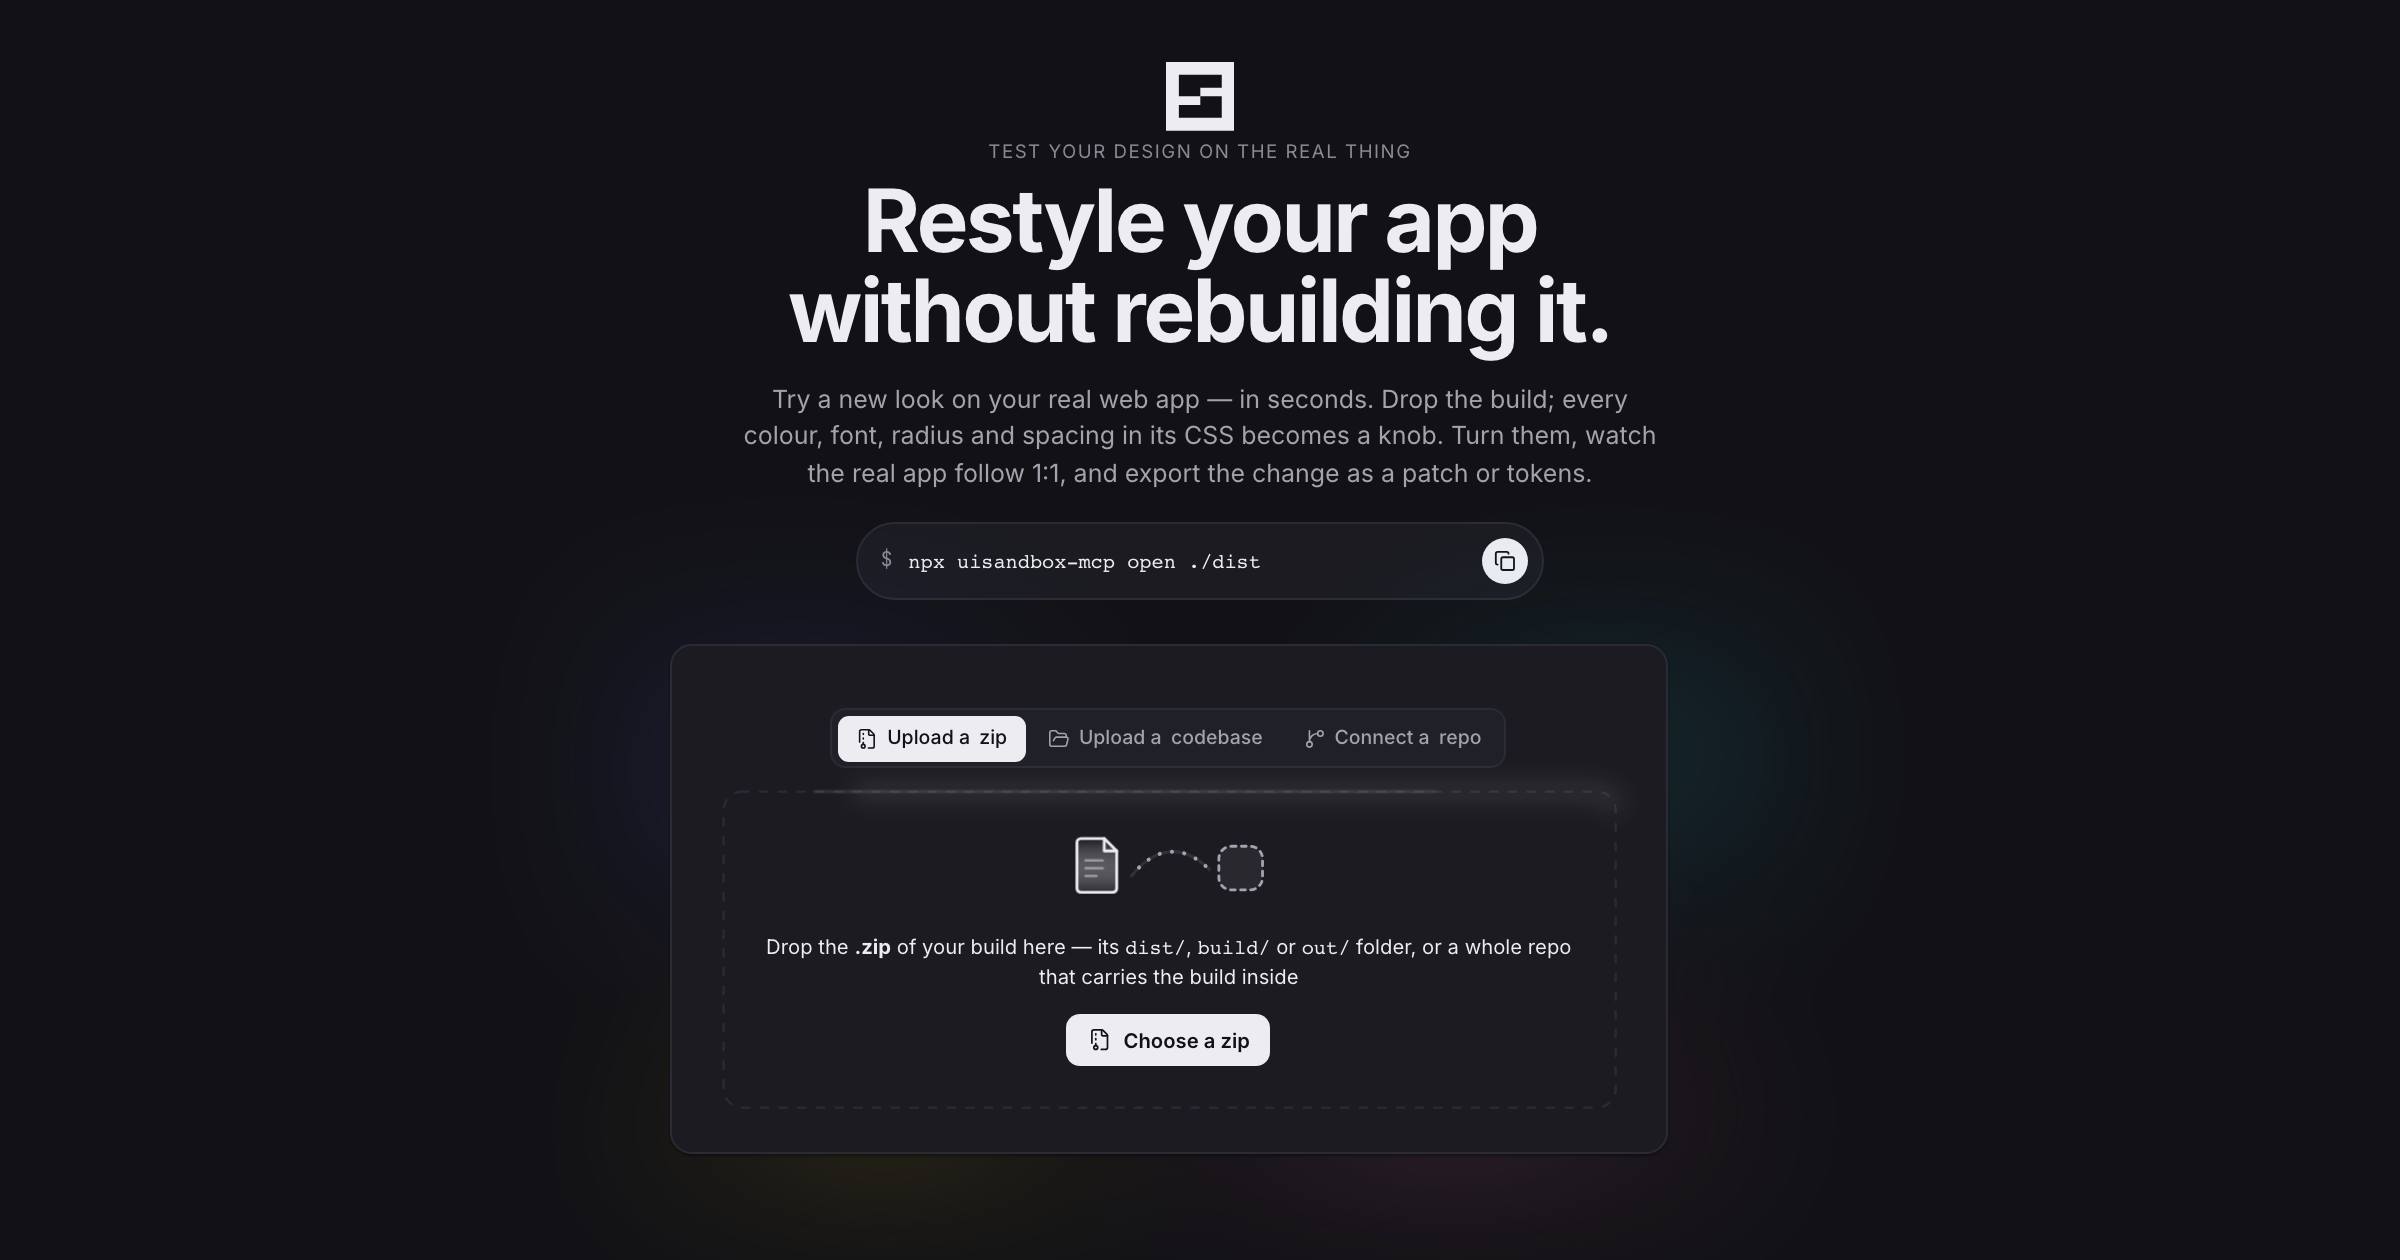
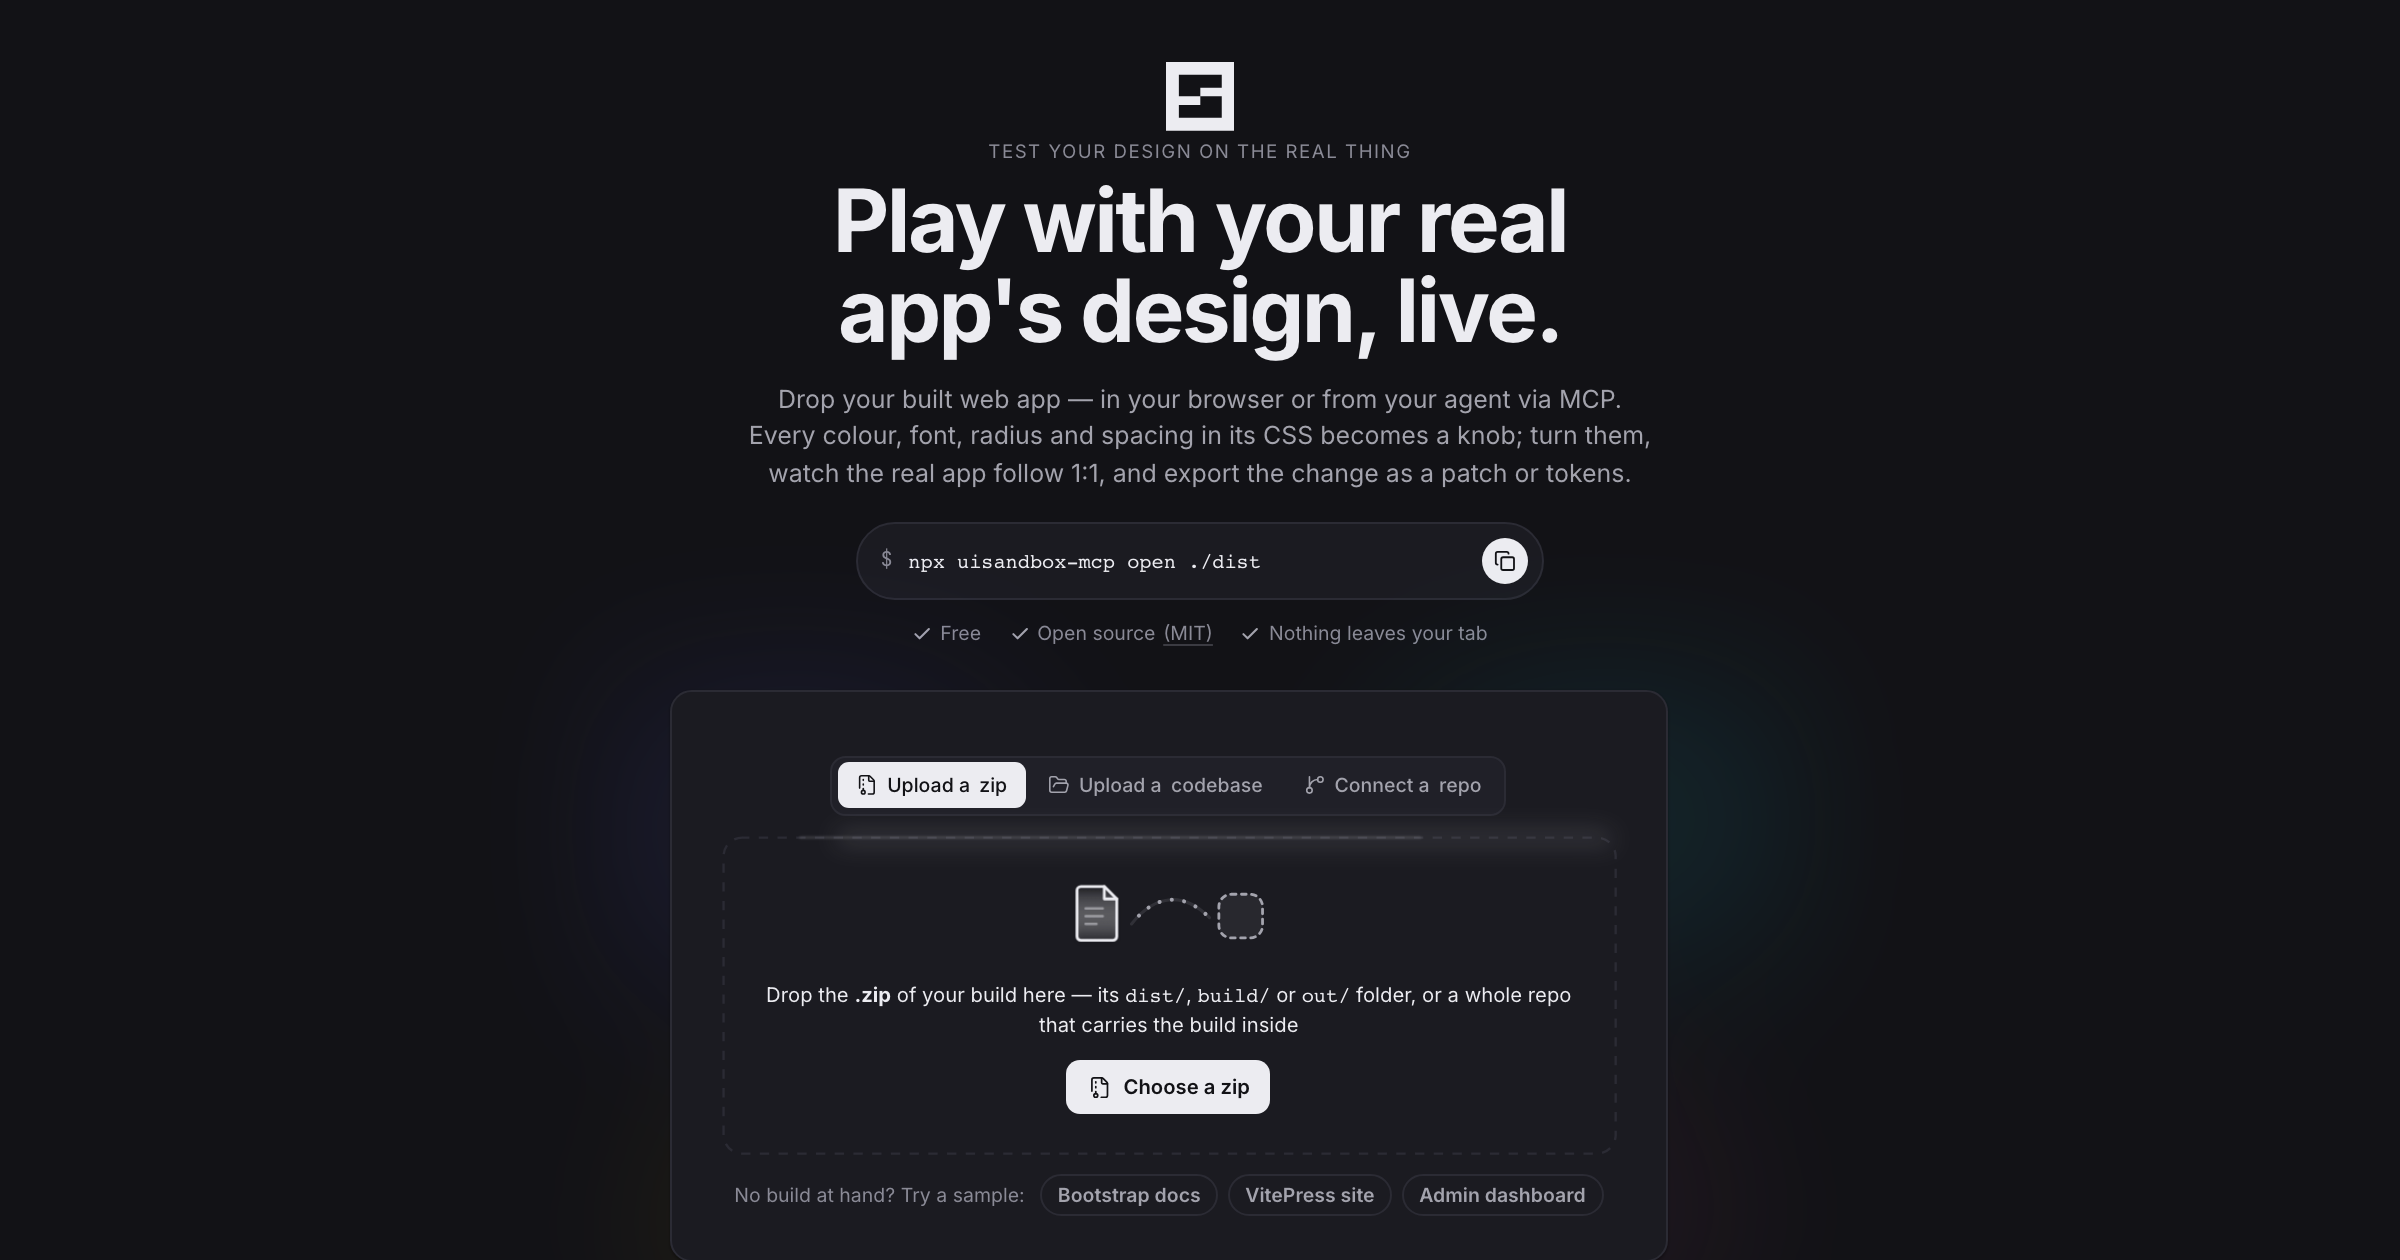
One claim everywhere: 'Play with your real app's design, live.' — H1, title, OG, JSON-LD, manifest, llms, README, marketing; sub-line names browser or MCP; OG reshot

diff --git a/index.html b/index.html
@@ -3,8 +3,8 @@
   <head>
     <meta charset="UTF-8" />
     <meta name="viewport" content="width=device-width, initial-scale=1.0" />
-    <title>UISandbox — Restyle your app without rebuilding it</title>
-    <meta name="description" content="Try a new look on your real web app in seconds. Drop the build, turn the knobs — brand, colours, fonts, spacing, radius — watch it follow 1:1, export the change as a patch or tokens. Free, open source, nothing leaves your tab." />
+    <title>UISandbox — Play with your real app's design, live</title>
+    <meta name="description" content="Play with your real app's design, live: drop the build, turn the knobs — brand, colours, fonts, spacing, radius — watch it follow 1:1, export the change as a patch or tokens. In your browser or via MCP. Free, open source, nothing leaves your tab." />
     <link rel="canonical" href="https://uisandbox.org/" />
     <meta name="theme-color" content="#18191d" />
     <link rel="icon" type="image/svg+xml" href="/favicon.svg" />
@@ -19,15 +19,15 @@
     <meta property="og:type" content="website" />
     <meta property="og:site_name" content="UISandbox" />
     <meta property="og:url" content="https://uisandbox.org/" />
-    <meta property="og:title" content="UISandbox — Restyle your app without rebuilding it" />
-    <meta property="og:description" content="Try a new look on your real web app in seconds: drop the build, turn the knobs, watch it follow 1:1, export the patch. Free, open source (MIT), nothing leaves your tab." />
+    <meta property="og:title" content="UISandbox — Play with your real app's design, live" />
+    <meta property="og:description" content="Drop the build, turn the knobs, watch the real app follow 1:1, export the patch. In your browser or via MCP. Free, open source (MIT), nothing leaves your tab." />
     <meta property="og:image" content="https://uisandbox.org/og.png" />
     <meta property="og:image:width" content="1200" />
     <meta property="og:image:height" content="630" />
     <meta property="og:image:alt" content="UISandbox: a real web app in a sandbox with the knobs beside it" />
     <meta name="twitter:card" content="summary_large_image" />
-    <meta name="twitter:title" content="UISandbox — Restyle your app without rebuilding it" />
-    <meta name="twitter:description" content="Try a new look on your real web app in seconds: drop the build, turn the knobs, watch it follow 1:1, export the patch. Free, open source (MIT), nothing leaves your tab." />
+    <meta name="twitter:title" content="UISandbox — Play with your real app's design, live" />
+    <meta name="twitter:description" content="Drop the build, turn the knobs, watch the real app follow 1:1, export the patch. In your browser or via MCP. Free, open source (MIT), nothing leaves your tab." />
     <meta name="twitter:image" content="https://uisandbox.org/og.png" />
     <!-- Structured data -->
     <script type="application/ld+json">
@@ -37,7 +37,7 @@
       "name": "UISandbox",
       "slogan": "Test your design on the real thing.",
       "url": "https://uisandbox.org/",
-      "description": "Restyle your app without rebuilding it: drop a built web app, see it 1:1 in the browser, turn the knobs (brand, colours, fonts, spacing, radius, elevation, motion) and export the change as a patch or tokens. Test your design on the real thing. Everything runs in the tab; nothing is uploaded.",
+      "description": "Play with your real app's design, live: drop a built web app, see it 1:1 in the browser, turn the knobs (brand, colours, fonts, spacing, radius, elevation, motion) and export the change as a patch or tokens. Test your design on the real thing. Everything runs in the tab; nothing is uploaded.",
       "applicationCategory": "DesignApplication",
       "operatingSystem": "Web",
       "browserRequirements": "A browser with service workers (Chrome, Edge, Firefox, Safari)",
@@ -84,8 +84,8 @@
         <main>
           <div class="m"></div>
           <div class="k">Test your design on the real thing</div>
-          <h1>Restyle your app<br>without rebuilding it.</h1>
-          <p class="s">Try a new look on your real web app — in seconds. Drop the build; every colour, font, radius and spacing in its CSS becomes a knob. Turn them, watch the real app follow 1:1, and export the change as a patch or tokens.</p>
+          <h1>Play with your real<br>app's design, live.</h1>
+          <p class="s">Drop your built web app — in your browser or from your agent via MCP. Every colour, font, radius and spacing in its CSS becomes a knob; turn them, watch the real app follow 1:1, and export the change as a patch or tokens.</p>
           <div class="i"></div>
           <p class="k" style="text-transform:none;letter-spacing:0;font-size:12.5px;margin:-16px 0 28px">✓ Free · ✓ Open source (MIT) · ✓ Nothing leaves your tab</p>
           <div class="c">

diff --git a/src/app/Intake.tsx b/src/app/Intake.tsx
@@ -62,8 +62,8 @@ export function Intake({ onArchive, onUrl, onSample, busy, error }: IntakeProps)
       <section className="hero">
         <div className="intake__mark"><Mark size={44} /></div>
         <div className="hero__kicker">Test your design on the real thing</div>
-        <h1>Restyle your app<br />without rebuilding it.</h1>
-        <p className="hero__sub">Try a new look on your real web app — in seconds. Drop the build; every colour, font, radius and spacing in its CSS becomes a knob. Turn them, watch the real app follow 1:1, and export the change as a patch or tokens.</p>
+        <h1>Play with your real<br />app's design, live.</h1>
+        <p className="hero__sub">Drop your built web app — in your browser or from your agent via MCP. Every colour, font, radius and spacing in its CSS becomes a knob; turn them, watch the real app follow 1:1, and export the change as a patch or tokens.</p>
         <InstallLine compact />
         <ul className="hero__proof" aria-label="In short">
           <li><Check size={13} strokeWidth={2.5} /> Free</li>
@@ -168,6 +168,7 @@ function Landing() {
     <div className="landing">
       <section className="landing__sec">
         <h2>How it works</h2>
+        <p className="landing__lead">Restyle your app without rebuilding it — try a new look on the real thing, in seconds.</p>
         <ol className="steps">
           <li><b>Bring the build.</b> A zip of <code>dist/</code>, <code>build/</code> or <code>out/</code>, a folder, or a public GitHub repo. Files are read in this tab and served to the frame by a service worker — nothing is uploaded.</li>
           <li><b>See it 1:1.</b> Every CSS literal becomes a variable holding the very same value, so the page renders exactly as it was — runtime styles, CDN stylesheets and nested frames included.</li>

diff --git a/scripts/og/og.html b/scripts/og/og.html
@@ -35,8 +35,8 @@
   </div>
   <div class="stage">
     <div class="brand"><svg viewBox="0 0 64 64"><path d="M64 64H0V0H64V64ZM12 32H32V40H12V52H52V32H32V24H52V12H12V32Z" fill="#ececf1" fill-rule="evenodd"/></svg>UISandbox</div>
-    <h1>Restyle your app<br><span>without rebuilding it.</span></h1>
-    <p>Try a new look on your real web app — in seconds. Drop the build, turn the knobs, watch it follow 1:1, export the patch. Test your design on the real thing.</p>
+    <h1>Play with your real<br><span>app's design, live.</span></h1>
+    <p>Restyle your app without rebuilding it — drop the build, turn the knobs, watch it follow 1:1, export the patch. Test your design on the real thing.</p>
   </div>
   <div class="foot"><span class="chip ok">✓ 1:1 verified · 1,184 elements</span><span class="chip">reach 100% colours · 100% type</span><span class="chip">MIT · free forever</span></div>
   <div class="url">uisandbox.org</div>

diff --git a/src/styles/chrome.css b/src/styles/chrome.css
@@ -349,6 +349,7 @@ kbd { font: 11px ui-monospace, Menlo, monospace; padding: 1px 5px; border: 1px s
 .install--compact { max-width: 440px; margin: 0 auto; }
 .landing { width: min(760px, 100%); display: flex; flex-direction: column; gap: 40px; margin-top: 24px; }
 .landing__sec h2 { font-size: 20px; letter-spacing: -0.02em; margin: 0 0 10px; }
+.landing__lead { margin: -4px 0 12px; font-size: 15px; color: var(--app-fg-muted); }
 .landing__sec p { font-size: 14.5px; line-height: 1.6; color: var(--app-fg-muted); margin: 0 0 10px; }
 .landing__sec p b { color: var(--app-fg); font-weight: 600; }
 .landing__sec a { color: var(--app-fg); }

diff --git a/src/app/App.tsx b/src/app/App.tsx
@@ -106,7 +106,7 @@ export function App() {
   // The tab title says which project is open (a hostile page may rewrite it —
   // security.md — so it is set from here on every load, not trusted).
   useEffect(() => {
-    document.title = loaded ? `UISandbox — ${loaded.project.name}` : 'UISandbox — Restyle your app without rebuilding it'
+    document.title = loaded ? `UISandbox — ${loaded.project.name}` : "UISandbox — Play with your real app's design, live"
   }, [loaded])
   const changedCount = useMemo(() => {
     if (!loaded) return 0

diff --git a/brand/marketing/copy.md b/brand/marketing/copy.md
@@ -4,7 +4,7 @@ The three lines, in this order of use: **Restyle your app without rebuilding it.
 
 ## X — the pinned post (with the GIF or `site-hero-light-1440.png`)
 
-Restyle your app without rebuilding it.
+Play with your real app's design, live.
 
 Drop the build of your web app into UISandbox → it renders 1:1 (measured, not promised) → every colour, font, radius and spacing in its CSS becomes a knob → turn them, watch the real app follow, export the patch.
 
@@ -40,7 +40,7 @@ MIT. https://uisandbox.org · https://github.com/AlexanderKaan/uisandbox — hap
 ## Product Hunt
 
 **Name:** UISandbox
-**Tagline (≤60):** Restyle your app without rebuilding it
+**Tagline (≤60):** Play with your real app's design, live
 **Description (≤260):** Drop your built web app, see it 1:1 in the browser, turn the knobs — brand, colours, fonts, spacing, radius — and export the change as a patch or tokens. Measured, not promised. Nothing leaves your tab. Free, MIT. Also an MCP server for Claude/Cursor.
 **Topics:** Design Tools · Developer Tools · Open Source · Artificial Intelligence
 **Gallery order:** the GIF · `site-hero-light-1440.png` · `stage-acme-brand-crimson.png` · `verify-card.png` · `og-panel-template.png`
@@ -52,5 +52,5 @@ Same as X but with the "why": every design review ends with "can we see it on th
 
 ## One-liners for directories / bios
 
-- Restyle your app without rebuilding it — your built web app, 1:1, with its own knobs. Free, MIT.
+- Play with your real app's design, live — your built web app, 1:1, with its own knobs, in your browser or via MCP. Free, MIT.
 - Test your design on the real thing: drop a build, turn the knobs, export the patch.

diff --git a/README.md b/README.md
@@ -1,11 +1,11 @@
 <p align="center">
-  <a href="https://uisandbox.org"><img src="brand/marketing/site-hero-light-1440.png" alt="UISandbox — Restyle your app without rebuilding it" width="880"></a>
+  <a href="https://uisandbox.org"><img src="brand/marketing/site-hero-light-1440.png" alt="UISandbox — Play with your real app's design, live" width="880"></a>
 </p>
 
 <h1 align="center">UISandbox</h1>
 
-<p align="center"><b>Restyle your app without rebuilding it.</b><br>
-Try a new look on your real web app — in seconds. Drop the build, turn the knobs, watch it follow 1:1, export the patch.<br>
+<p align="center"><b>Play with your real app's design, live.</b><br>
+Restyle your app without rebuilding it — drop the build, turn the knobs, watch it follow 1:1, export the patch.<br>
 <sub>Test your design on the real thing.</sub></p>
 
 <p align="center">

diff --git a/notes/decisions.md b/notes/decisions.md
@@ -843,3 +843,9 @@ react-virtualized 100/100/100 (180 el., all runtime inline styles tokenised).
     hand? Try a sample" under the drop zone. The ask for a star appears in
     the stage foot only once something was turned or the 1:1 check passed —
     at the moment the tool has earned it, not before.
+128. One claim everywhere: "Play with your real app's design, live." — site H1,
+    <title>, OG/Twitter titles, JSON-LD, webmanifest, llms.txt, README, the
+    PH tagline. It says what you get (play, your real app, live) where the old
+    line said what you save (no rebuild); the old line lives on as the second
+    line under How it works and in the bodycopy. The sub-line names the two
+    doors — browser, or your agent via MCP — and the OG image was reshot.

diff --git a/brand/marketing/README.md b/brand/marketing/README.md
@@ -11,7 +11,7 @@ All rendered from the real app (nothing drawn by hand) — regenerate after a de
 | `stage-acme-brand-crimson.png` | a real build (our acme fixture) in the sandbox, Brand turned to crimson | `node scripts/og/shots.mjs` |
 | `verify-card.png` | the 1:1 check card | idem |
 
-Lines to use with them: *Restyle your app without rebuilding it.* · *Try a new look on your real web app — in seconds.* · kicker: *Test your design on the real thing.*
+Lines to use with them: *Play with your real app's design, live.* (the claim) · *Restyle your app without rebuilding it.* (second line) · kicker: *Test your design on the real thing.*
 
 ## Social preview (GitHub)
 
